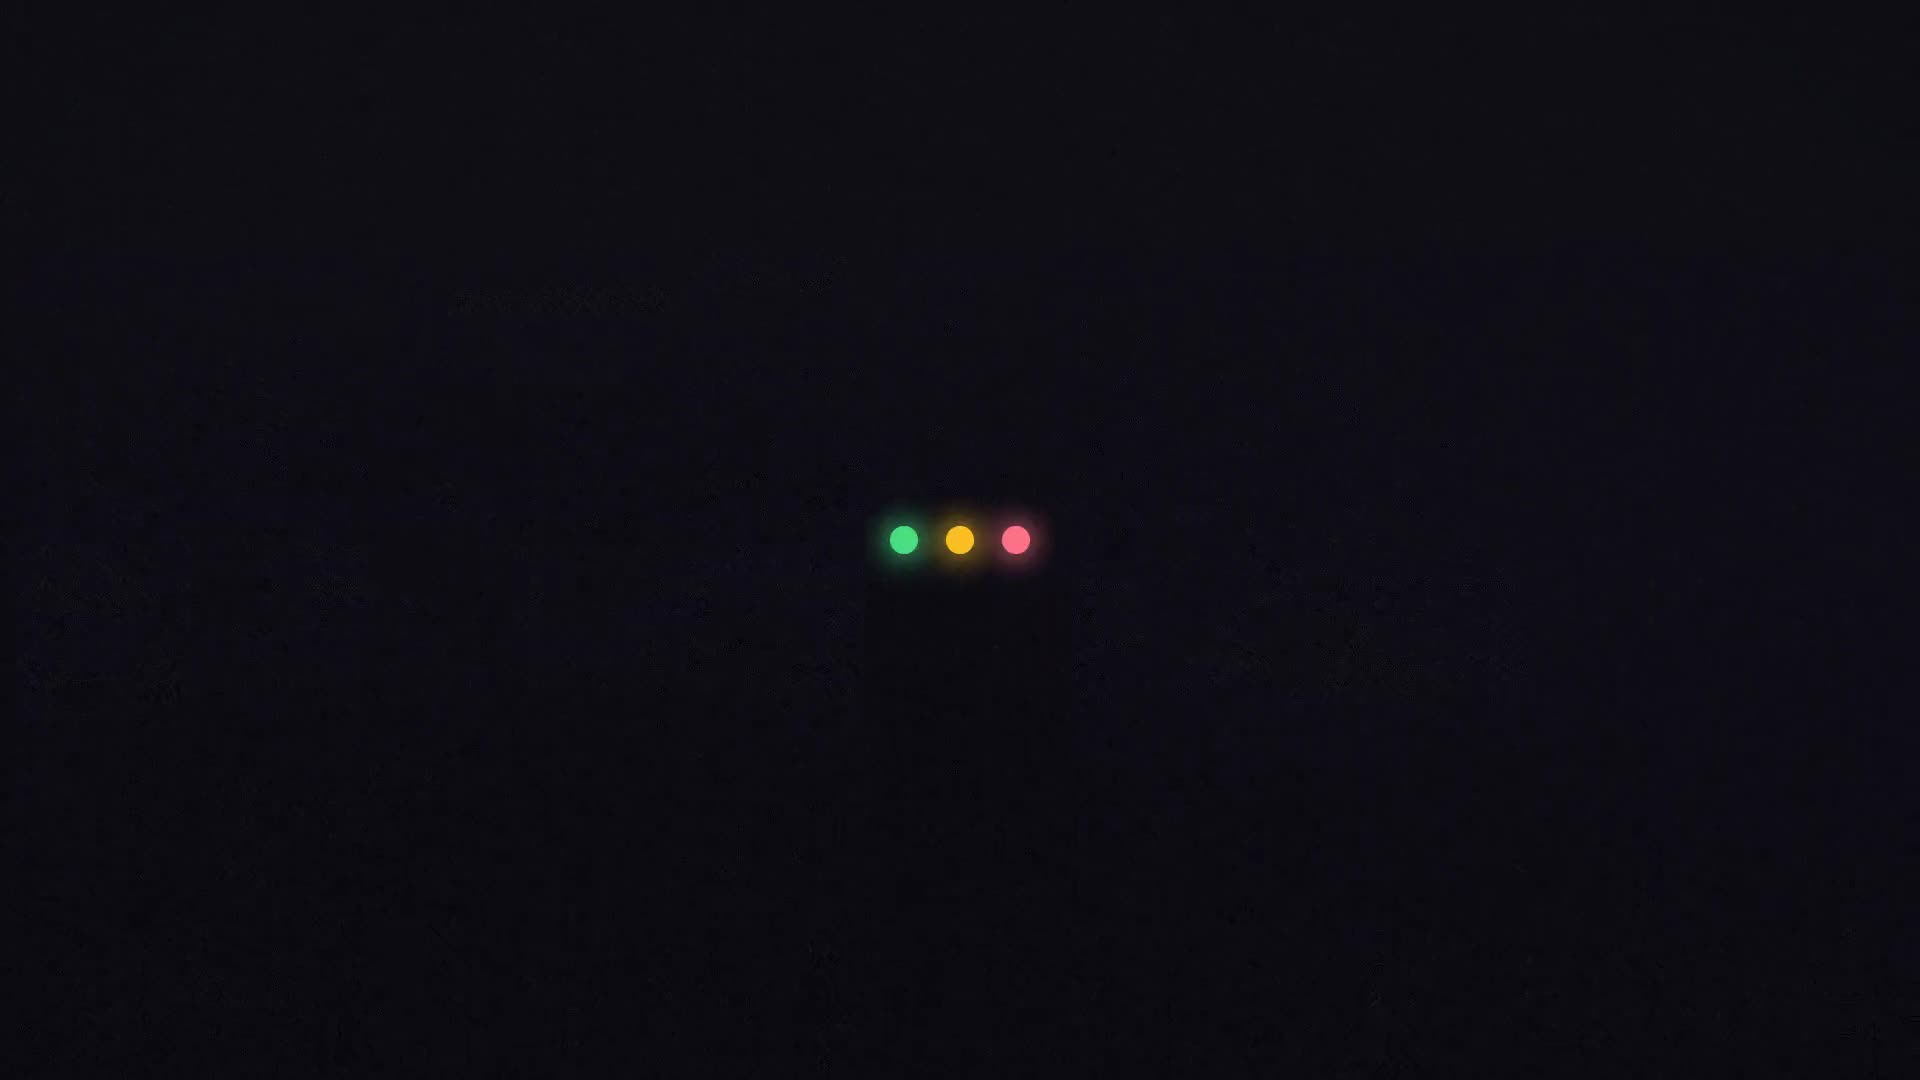
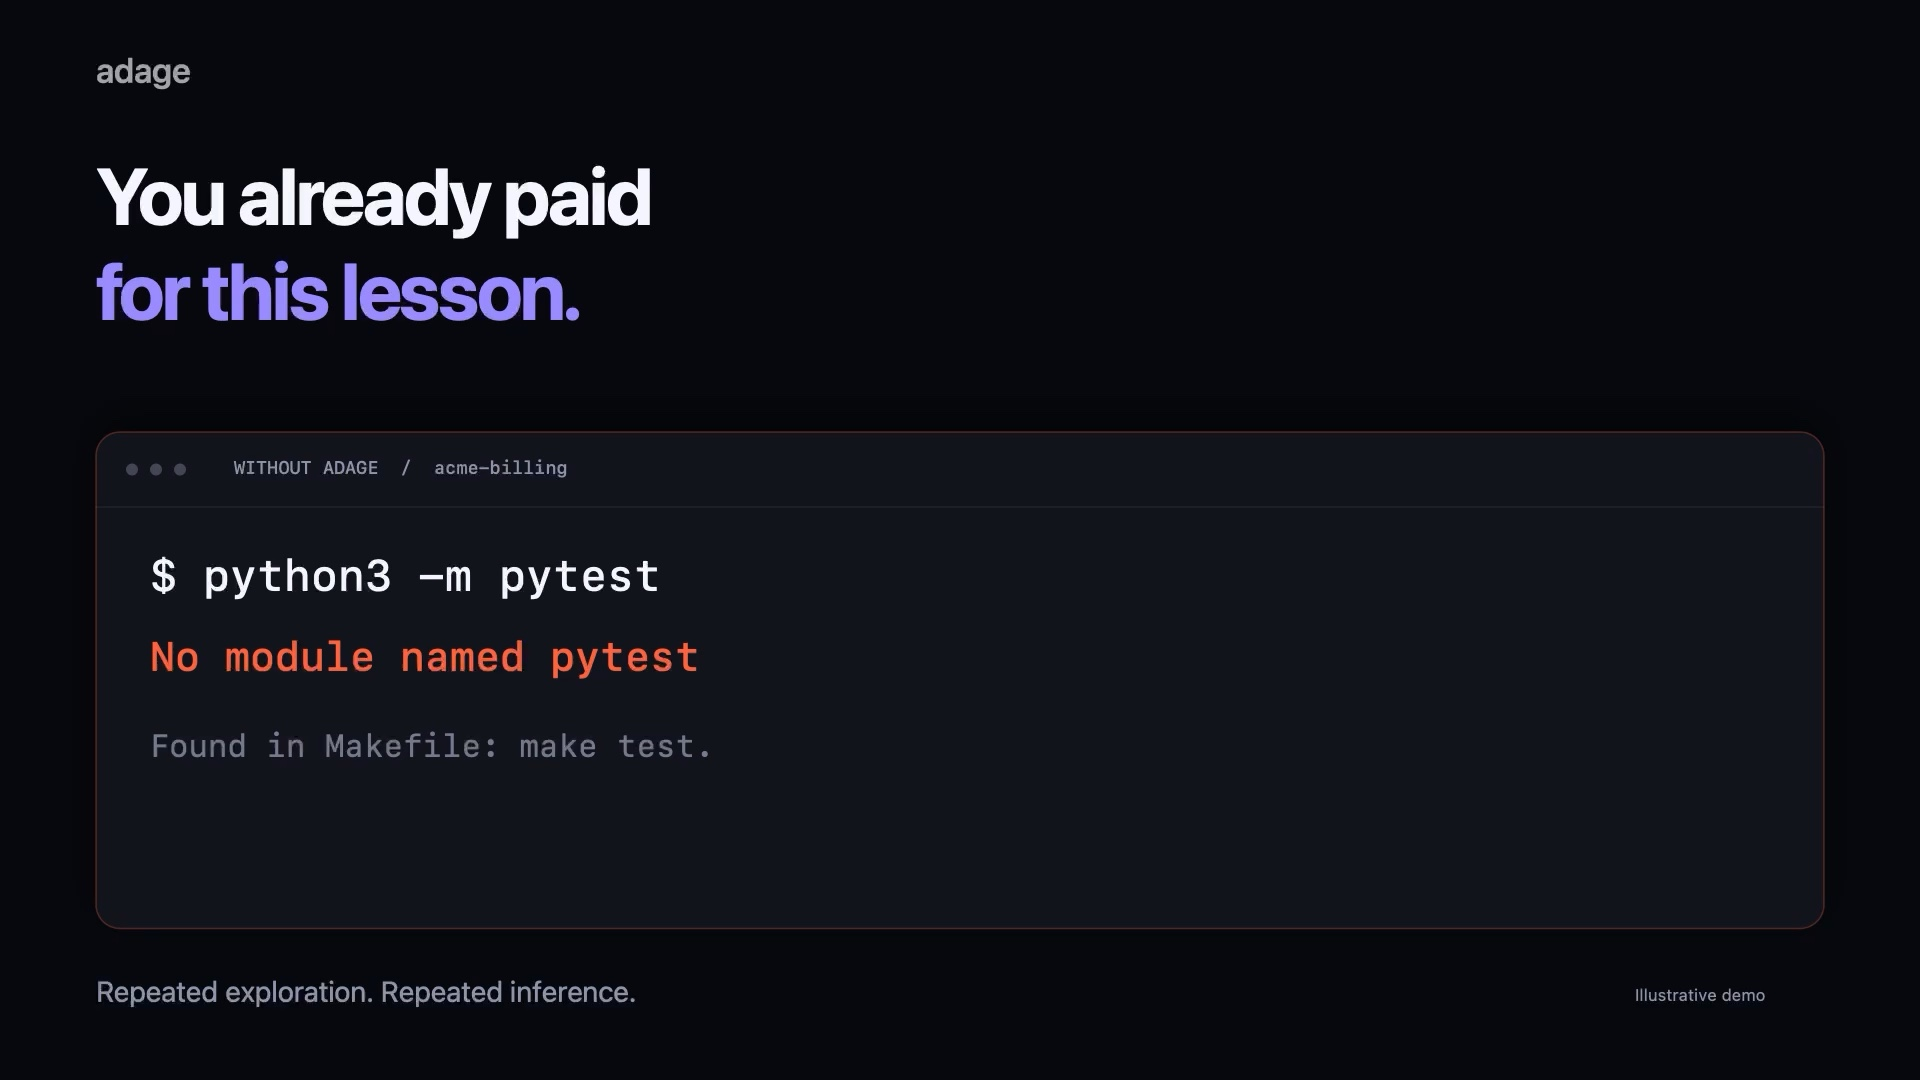
site: connect v12 teaser URLs and refresh film metadata

diff --git a/web/site/index.html b/web/site/index.html
@@ -27,9 +27,9 @@
 
 <div class="film" id="film" tabindex="-1" role="dialog" aria-modal="true" aria-label="Adage teaser film" aria-describedby="film-desc">
   <video id="film-video" playsinline muted preload="none" tabindex="-1"></video>
-  <p class="sr" id="film-desc">A short film, about one and a half minutes. Every step an agent takes is a thought; reflexes skip the model's work. It ends on the line: Agent traces become reflexes. Press Escape or Skip intro to go to the page.</p>
+  <p class="sr" id="film-desc">A 45-second film showing how Adage learns from agent traces, predicts next steps, and turns repeated decisions into local reflexes. It includes an illustrative terminal demo, brain and trace animations, GPU-to-CPU compute transfer, and early benchmark results. Press Escape or Skip intro to go to the page.</p>
   <button class="film-close film-ui" id="film-close" type="button" aria-label="Close the teaser"><svg viewBox="0 0 14 14" aria-hidden="true"><path d="M2 2l10 10M12 2L2 12"/></svg></button>
-  <button class="film-play" id="film-play" type="button" hidden>&#9654;&#xFE0E; Play the teaser &middot; 1:28</button>
+  <button class="film-play" id="film-play" type="button" hidden>&#9654;&#xFE0E; Play the teaser &middot; 0:45</button>
   <div class="film-bar film-ui">
     <button id="film-sound" type="button" aria-pressed="false">Sound on</button>
     <div class="film-track" aria-hidden="true"><i id="film-prog"></i></div>

diff --git a/web/site/src/film.ts b/web/site/src/film.ts
@@ -5,8 +5,8 @@
 const MEDIA = (import.meta.env.VITE_MEDIA_BASE as string | undefined) || "/media/";
 const OFF = import.meta.env.VITE_FILM === "off";
 const SRC = {
-  dark: [MEDIA + "teaser-dark.mp4", "/media/poster-dark.jpg"],
-  light: [MEDIA + "teaser-day.mp4", "/media/poster-day.jpg"],
+  dark: [(import.meta.env.VITE_FILM_DARK_URL as string | undefined) || MEDIA + "teaser-dark.mp4", "/media/poster-dark.jpg"],
+  light: [(import.meta.env.VITE_FILM_DAY_URL as string | undefined) || MEDIA + "teaser-day.mp4", "/media/poster-day.jpg"],
 } as const;
 
 type Opts = { isLight(): boolean; reduced(): boolean; onOpen(): void; onClose(): void };

diff --git a/web/site/src/vite-env.d.ts b/web/site/src/vite-env.d.ts
@@ -3,6 +3,9 @@
 interface ImportMetaEnv {
   /** Where the teaser films are served from, ending in "/" (e.g. a Vercel Blob store). Default: /media/. */
   readonly VITE_MEDIA_BASE?: string;
+  /** Public URLs for the theme-specific teaser films. */
+  readonly VITE_FILM_DARK_URL?: string;
+  readonly VITE_FILM_DAY_URL?: string;
   /** "off" builds the site without the opening film. */
   readonly VITE_FILM?: string;
   /** The public repository, for the README and lexicon links. Unset: the links are hidden. */
